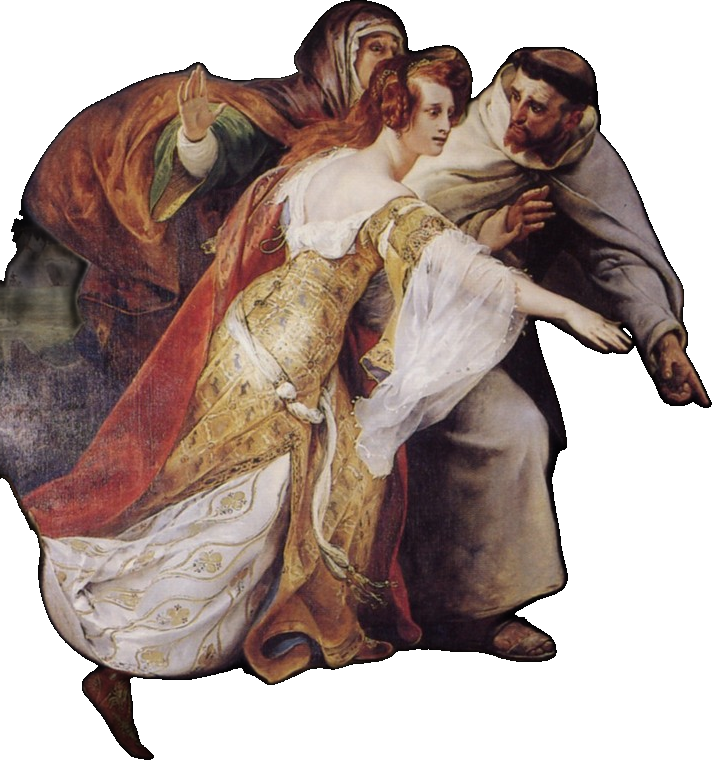
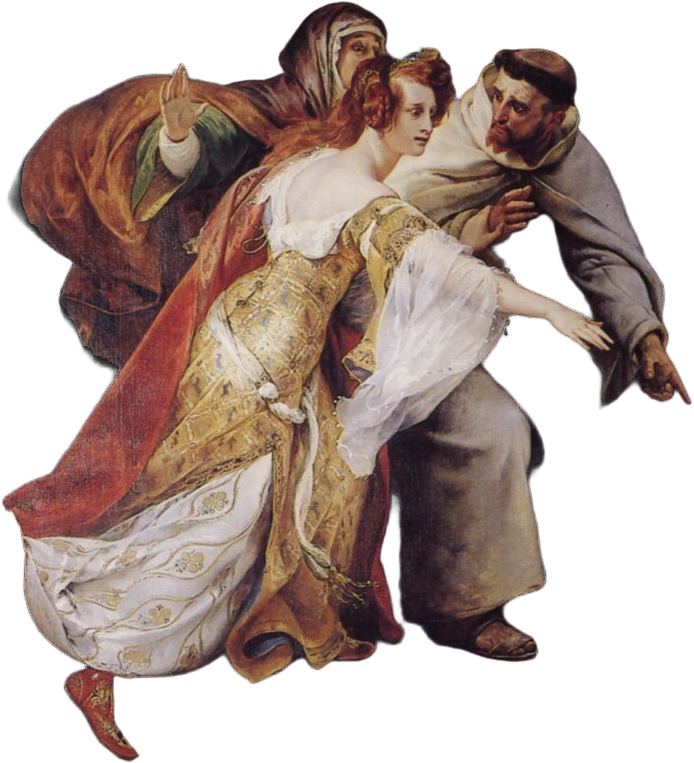
Clean cut-outs: BiRefNet with the model's soft alpha replaces the U2-Net hard masks on both thumbnail subjects
Checked on a magenta background at 2x: the old Fulham cut-out kept grass between the players and a dark halo; the old Vernet cut-out had a dark outline and a patch of background. BiRefNet (no matting: matting added a dark smudge) is clean on both. cutouts.json now records the production commands.

Claude-Session: https://claude.ai/code/session_015ozsPqEdf5RUvG1dfFjuqr

diff --git a/platform/production/cutout.py b/platform/production/cutout.py
@@ -32,7 +32,7 @@ def torn_edge(alpha: Image.Image, border: int, seed: int) -> Image.Image:
 def main():
     ap = argparse.ArgumentParser()
     ap.add_argument("src"); ap.add_argument("dst")
-    ap.add_argument("--model", default="u2net_human_seg")
+    ap.add_argument("--model", default="birefnet-general")   # 18 Nov 2026 side-by-side on magenta: BiRefNet clean; u2net left grass and a dark halo; matting smudged
     ap.add_argument("--paper", type=int, default=0)
     ap.add_argument("--bw", action="store_true")
     ap.add_argument("--seed", type=int, default=1)
